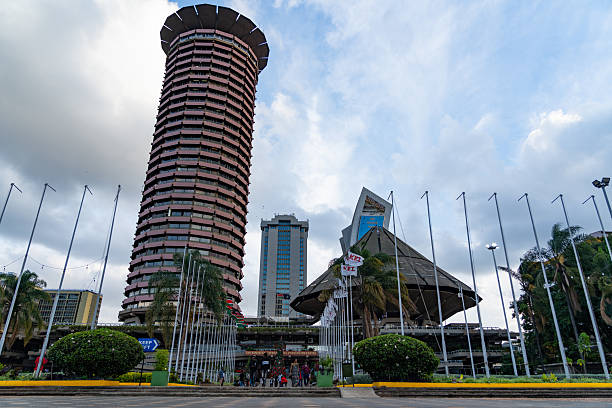
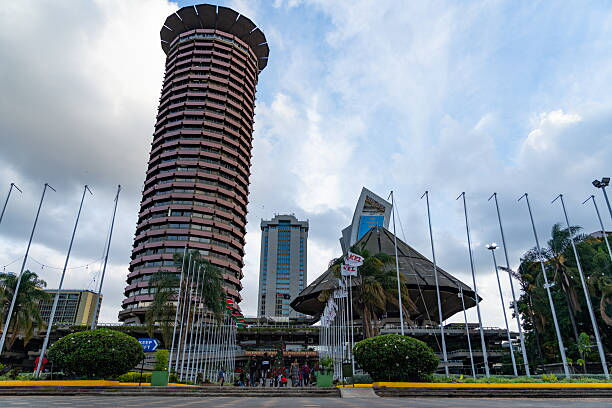
Fix hero video upload: route through MediaLibraryService with R2 disk + ffprobe dims
- MediaLibraryService: support configurable disk (r2/public), ffprobe
  for video dimensions (no more getimagesize false-positives),
  writeStream instead of storeAs for cross-disk compatibility
- KiccAdminController: revert to MediaLibraryService with disk=r2
- deleteHeroVideo: now cleans up R2 bytes via MediaLibraryService::delete
- .gitignore: exclude kicc-video binary artifacts from git tracking

diff --git a/app/Services/MediaLibraryService.php b/app/Services/MediaLibraryService.php
@@ -3,17 +3,11 @@
 namespace App\Services;
 
 use App\Models\MediaAsset;
+use Illuminate\Support\Facades\Process;
 use Illuminate\Support\Facades\Storage;
 use Illuminate\Support\Str;
 use Illuminate\Http\UploadedFile;
 
-/**
- * MediaLibraryService — the single source of truth for all media.
- *
- * Every uploaded file becomes a MediaAsset row; nothing is ever hardcoded.
- * Adapters (county hero, product image, venue cover) reference assets, so
- * swapping an image in admin automatically updates every public page.
- */
 class MediaLibraryService
 {
     public function store(UploadedFile $file, array $opts = []): MediaAsset
@@ -21,7 +15,12 @@ class MediaLibraryService
         $uuid = (string) Str::uuid();
         $ext = strtolower($file->getClientOriginalExtension() ?: $file->guessExtension() ?: 'bin');
         $dir = $opts['directory'] ?? 'media';
-        $path = $file->storeAs($dir, "{$uuid}.{$ext}", ['disk' => 'public']);
+        $disk = $opts['disk'] ?? 'public';
+        $path = $dir . "/{$uuid}.{$ext}";
+
+        $stream = fopen($file->getRealPath(), 'r');
+        Storage::disk($disk)->writeStream($path, $stream, ['visibility' => 'public']);
+        if (is_resource($stream)) fclose($stream);
 
         $kind = match (strtolower($file->getClientMimeType() ?: $file->getMimeType() ?: '')) {
             'video/webm', 'video/mp4', 'video/quicktime' => 'video',
@@ -30,20 +29,20 @@ class MediaLibraryService
             default => 'image',
         };
 
-        $size = getimagesize(Storage::disk('public')->path($path));
+        [$width, $height] = $this->detectDimensions($file, $kind);
 
         return MediaAsset::create([
             'uuid' => $uuid,
             'owner_id' => $opts['owner_id'] ?? auth()->id(),
             'owner_type' => $opts['owner_type'] ?? (auth()->user() ? get_class(auth()->user()) : null),
-            'disk' => 'public',
+            'disk' => $disk,
             'path' => $path,
             'original_name' => $file->getClientOriginalName(),
             'mime' => $file->getClientMimeType() ?: $file->getMimeType(),
             'kind' => $kind,
             'size_bytes' => $file->getSize(),
-            'width' => $size[0] ?? null,
-            'height' => $size[1] ?? null,
+            'width' => $width,
+            'height' => $height,
             'status' => 'uploaded',
             'alt_text' => $opts['alt_text'] ?? null,
             'metadata' => $opts['metadata'] ?? null,
@@ -64,38 +63,61 @@ class MediaLibraryService
 
     public function syncFromPath(MediaAsset $asset, string $absPath): MediaAsset
     {
-        $rel = 'media/' . $asset->uuid . '.' . pathinfo($absPath, PATHINFO_EXTENSION);
-        Storage::disk('public')->put($rel, file_get_contents($absPath));
+        $ext = pathinfo($absPath, PATHINFO_EXTENSION);
+        $path = 'media/' . $asset->uuid . '.' . $ext;
+        Storage::disk($asset->disk)->writeStream($path, fopen($absPath, 'r'));
 
-        $asset->forceFill(['path' => $rel, 'size_bytes' => filesize($absPath)])->save();
+        $asset->forceFill(['path' => $path, 'size_bytes' => filesize($absPath)])->save();
 
         return $asset;
     }
 
     public function delete(MediaAsset $asset): void
     {
+        $disk = Storage::disk($asset->disk);
         foreach ($asset->derivatives as $d) {
-            Storage::disk('public')->delete($d->path);
+            $disk->delete($d->path);
         }
-        Storage::disk('public')->delete($asset->path);
+        $disk->delete($asset->path);
         $asset->delete();
     }
 
-    public function copyTo(MediaAsset $source, string $directory = 'media'): MediaAsset
+    public function copyTo(MediaAsset $source, string $directory = 'media', ?string $disk = null): MediaAsset
     {
+        $targetDisk = $disk ?? $source->disk;
         $abs = Storage::disk($source->disk)->path($source->path);
         $ext = pathinfo($abs, PATHINFO_EXTENSION);
         $uuid = (string) Str::uuid();
         $path = "{$directory}/{$uuid}.{$ext}";
-        Storage::disk('public')->put($path, file_get_contents($abs));
+        Storage::disk($targetDisk)->writeStream($path, fopen($abs, 'r'));
 
         return MediaAsset::create($source->only(['original_name', 'mime', 'kind', 'size_bytes', 'width', 'height', 'metadata']) + [
             'uuid' => $uuid,
             'owner_id' => $source->owner_id,
             'owner_type' => $source->owner_type,
-            'disk' => 'public',
+            'disk' => $targetDisk,
             'path' => $path,
             'status' => 'ready',
         ]);
+    }
+
+    private function detectDimensions(UploadedFile $file, string $kind): array
+    {
+        if ($kind === 'video') {
+            try {
+                $result = Process::run(
+                    "ffprobe -v error -select_streams v:0 -show_entries stream=width,height -of csv=p=0 " . escapeshellarg($file->getRealPath())
+                );
+                if ($result->successful()) {
+                    $parts = explode(',', trim($result->output()));
+                    return [(int) ($parts[0] ?? 0) ?: null, (int) ($parts[1] ?? 0) ?: null];
+                }
+            } catch (\Throwable) {
+            }
+            return [null, null];
+        }
+
+        $size = @getimagesize($file->getRealPath());
+        return $size ? [$size[0], $size[1]] : [null, null];
     }
 }

diff --git a/app/Http/Controllers/Web/KiccAdminController.php b/app/Http/Controllers/Web/KiccAdminController.php
@@ -16,7 +16,6 @@ use App\Services\MediaLibraryService;
 use Illuminate\Http\Request;
 use Illuminate\Support\Facades\Artisan;
 use Illuminate\Support\Facades\Auth;
-use Illuminate\Support\Facades\Process;
 
 /**
  * KICC Overall Admin Portal — the platform owner's god-mode.
@@ -176,55 +175,22 @@ class KiccAdminController extends Controller
 
         MediaAsset::forSlot('landing_page', 1, 'hero_video')->delete();
 
-        $file = $request->file('video');
-        $uuid = (string) \Illuminate\Support\Str::uuid();
-        $ext = strtolower($file->getClientOriginalExtension() ?: 'mp4');
-        $path = "kicc/4d/{$uuid}.{$ext}";
-
-        // Upload to R2 directly
-        $uploaded = \Illuminate\Support\Facades\Storage::disk('r2')->put($path, fopen($file->getRealPath(), 'r'), ['visibility' => 'public']);
-        if (!$uploaded) {
-            return back()->withErrors(['video' => 'Failed to upload the file to storage. Check R2 configuration.']);
-        }
-
-        // Detect video dimensions via ffprobe (fallback to null)
-        $width = null;
-        $height = null;
-        try {
-            $ffprobe = \Illuminate\Support\Facades\Process::run("ffprobe -v error -select_streams v:0 -show_entries stream=width,height -of csv=p=0 " . escapeshellarg($file->getRealPath()));
-            if ($ffprobe->successful()) {
-                $parts = explode(',', trim($ffprobe->output()));
-                $width = (int) ($parts[0] ?? 0) ?: null;
-                $height = (int) ($parts[1] ?? 0) ?: null;
-            }
-        } catch (\Throwable) {
-            // ignore
-        }
-
-        $asset = MediaAsset::create([
-            'uuid' => $uuid,
-            'owner_id' => 1,
+        $asset = $library->store($request->file('video'), [
             'owner_type' => 'landing_page',
+            'owner_id' => 1,
             'slot' => 'hero_video',
             'disk' => 'r2',
-            'path' => $path,
-            'original_name' => $file->getClientOriginalName(),
-            'mime' => $file->getClientMimeType(),
-            'kind' => 'video',
-            'size_bytes' => $file->getSize(),
-            'width' => $width,
-            'height' => $height,
-            'status' => 'ready',
             'alt_text' => 'KICC Landing Page Hero Video',
         ]);
 
+        $asset->forceFill(['status' => 'ready'])->save();
         $asset->derivatives()->create([
             'kind' => 'video_mp4',
-            'path' => $path,
+            'path' => $asset->path,
             'mime' => $asset->mime,
             'size_bytes' => $asset->size_bytes,
-            'width' => $width,
-            'height' => $height,
+            'width' => $asset->width,
+            'height' => $asset->height,
             'variant' => '1080p',
         ]);
 
@@ -235,7 +201,10 @@ class KiccAdminController extends Controller
     {
         $this->authorizeKicc();
 
-        MediaAsset::forSlot('landing_page', 1, 'hero_video')->delete();
+        $asset = MediaAsset::forSlot('landing_page', 1, 'hero_video')->first();
+        if ($asset) {
+            app(MediaLibraryService::class)->delete($asset);
+        }
 
         return redirect()->route('kicc.admin', ['tab' => 'hero_media'])->with('success', 'Hero video removed. Homepage will use fallback video.');
     }
